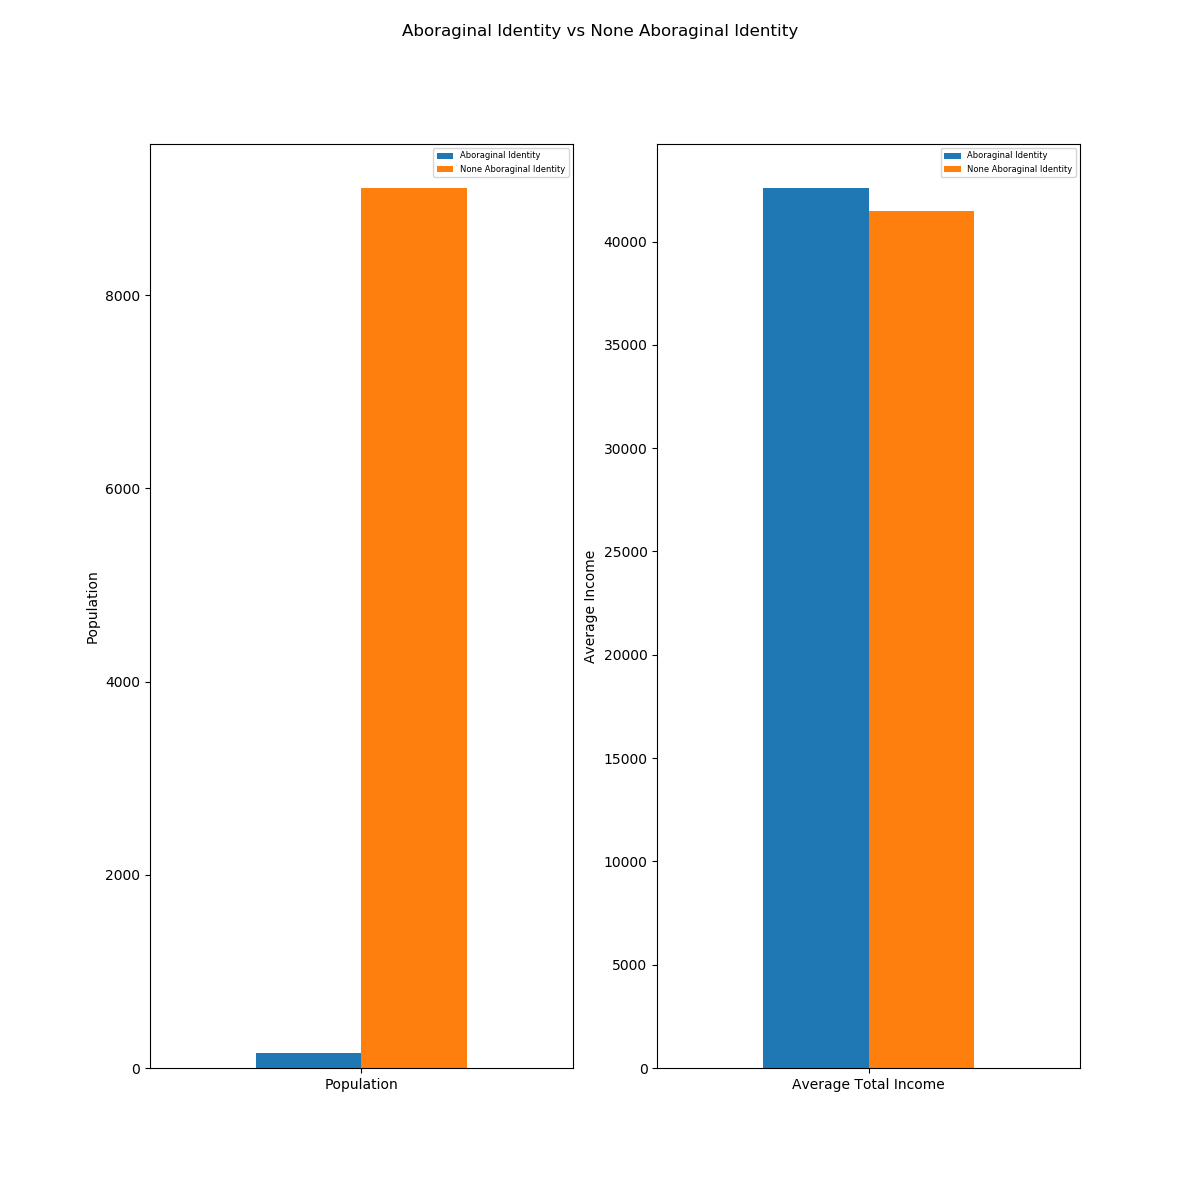
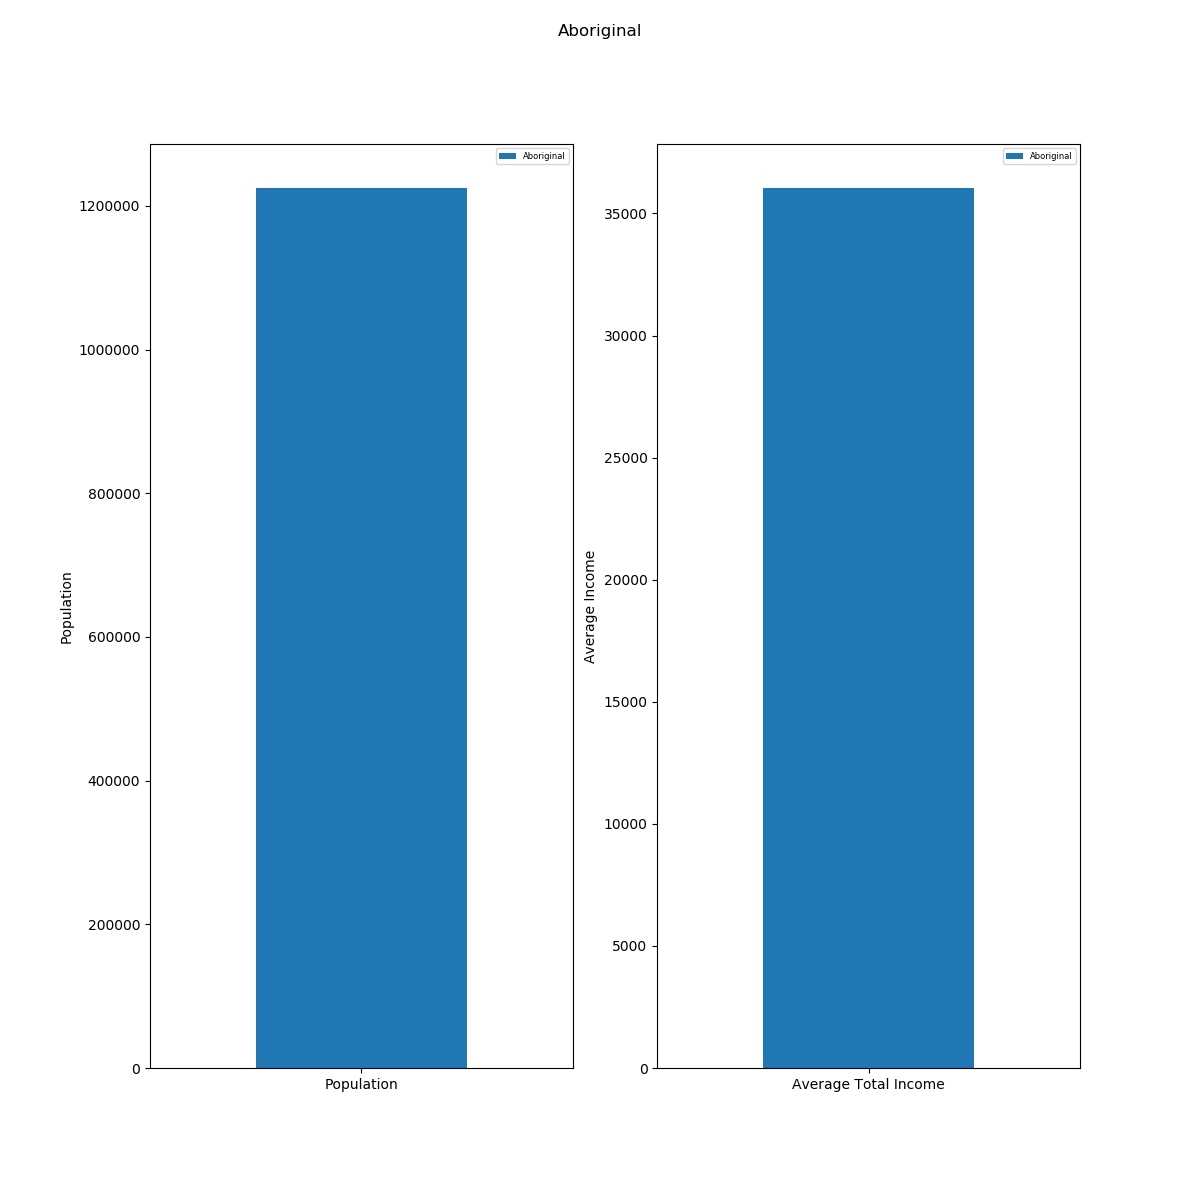
fixed average error for all 3

diff --git a/StatsCanFolder/wInterface/static/results/Heatmap.html b/StatsCanFolder/wInterface/static/results/Heatmap.html
@@ -15,7 +15,7 @@
     <style>html, body {width: 100%;height: 100%;margin: 0;padding: 0;}</style>
     <style>#map {position:absolute;top:0;bottom:0;right:0;left:0;}</style>
     
-            <style> #map_3703942cca3e48f69d29f30a1aa2665d {
+            <style> #map_608628986e7b43b0a8769cdf8b68c8f3 {
                 position : relative;
                 width : 100.0%;
                 height: 100.0%;
@@ -28,7 +28,7 @@
 </head>
 <body>    
     
-            <div class="folium-map" id="map_3703942cca3e48f69d29f30a1aa2665d" ></div>
+            <div class="folium-map" id="map_608628986e7b43b0a8769cdf8b68c8f3" ></div>
         
 </body>
 <script>    
@@ -38,8 +38,8 @@
                 var bounds = null;
             
 
-            var map_3703942cca3e48f69d29f30a1aa2665d = L.map(
-                                  'map_3703942cca3e48f69d29f30a1aa2665d',
+            var map_608628986e7b43b0a8769cdf8b68c8f3 = L.map(
+                                  'map_608628986e7b43b0a8769cdf8b68c8f3',
                                   {center: [56,-95],
                                   zoom: 4,
                                   maxBounds: bounds,
@@ -50,7 +50,7 @@
             
         
     
-            var tile_layer_ce5787634271406b9bb337b8de489ebb = L.tileLayer(
+            var tile_layer_ef503fda29054f0b8fc17ea97739add9 = L.tileLayer(
                 'https://stamen-tiles-{s}.a.ssl.fastly.net/terrain/{z}/{x}/{y}.jpg',
                 {
   "attribution": null,
@@ -60,10 +60,10 @@
   "noWrap": false,
   "subdomains": "abc"
 }
-                ).addTo(map_3703942cca3e48f69d29f30a1aa2665d);
+                ).addTo(map_608628986e7b43b0a8769cdf8b68c8f3);
         
     
-            var heat_map_e64615d4b96d4a128b120db3b5f1ca61 = L.heatLayer(
+            var heat_map_b8dc612a5d1d4bc38b46faadc12e081b = L.heatLayer(
                 [[48.549999999999997, -71.659999999999997, 985.0], [45.43, -76.370000000000005, 650.0], [49.219999999999999, -68.159999999999997, 1035.0], [44.380000000000003, -79.680000000000007, 5090.0], [47.619999999999997, -65.650000000000006, 930.0], [47.590000000000003, -53.289999999999999, 160.0], [44.170000000000002, -77.379999999999995, 3910.0], [49.840000000000003, -99.959999999999994, 4760.0], [43.149999999999999, -80.260000000000005, 4650.0], [44.609999999999999, -75.700000000000003, 855.0], [50.57, -111.91, 525.0], [51.049999999999997, -114.06, 30745.0], [49.990000000000002, -125.23, 3525.0], [48.0, -66.680000000000007, 1490.0], [53.020000000000003, -112.84, 710.0], [51.090000000000003, -115.34999999999999, 205.0], [45.130000000000003, -76.129999999999995, 990.0], [46.240000000000002, -63.140000000000001, 960.0], [49.170000000000002, -121.95999999999999, 6695.0], [43.960000000000001, -78.170000000000002, 360.0], [44.490000000000002, -80.209999999999994, 450.0], [48.960000000000001, -57.960000000000001, 6435.0], [45.030000000000001, -74.739999999999995, 1700.0], [49.689999999999998, -125.0, 2385.0], [45.210000000000001, -72.75, 230.0], [49.509999999999998, -115.77, 1500.0], [55.759999999999998, -120.23999999999999, 1350.0], [45.890000000000001, -72.489999999999995, 880.0], [48.780000000000001, -123.7, 4120.0], [53.57, -113.54000000000001, 55470.0], [47.380000000000003, -68.340000000000003, 720.0], [46.390000000000001, -82.659999999999997, 770.0], [49.140000000000001, -103.01000000000001, 615.0], [45.960000000000001, -66.659999999999997, 3095.0], [48.950000000000003, -54.649999999999999, 775.0], [45.409999999999997, -72.730000000000004, 715.0], [48.93, -55.659999999999997, 560.0], [55.18, -118.8, 4640.0], [43.560000000000002, -80.260000000000005, 1730.0], [44.670000000000002, -63.609999999999999, 12300.0], [43.259999999999998, -79.849999999999994, 11020.0], [45.619999999999997, -74.599999999999994, 195.0], [50.579999999999998, -113.87, 385.0], [43.030000000000001, -80.879999999999995, 235.0], [46.030000000000001, -73.450000000000003, 640.0], [50.68, -120.34, 7960.0], [49.890000000000001, -119.45999999999999, 8435.0], [49.780000000000001, -94.489999999999995, 2230.0], [45.079999999999998, -64.510000000000005, 840.0], [44.229999999999997, -76.5, 4405.0], [45.649999999999999, -74.349999999999994, 155.0], [52.469999999999999, -113.73, 375.0], [42.060000000000002, -82.599999999999994, 665.0], [49.689999999999998, -112.83, 4305.0], [53.280000000000001, -110.01000000000001, 2350.0], [42.969999999999999, -81.239999999999995, 9035.0], [48.850000000000001, -67.530000000000001, 300.0], [50.039999999999999, -110.69, 2550.0], [44.75, -79.890000000000001, 4190.0], [46.090000000000003, -64.780000000000001, 2765.0], [50.390000000000001, -105.54000000000001, 1450.0], [49.210000000000001, -123.97, 5980.0], [49.490000000000002, -117.3, 660.0], [45.590000000000003, -62.649999999999999, 1060.0], [52.789999999999999, -108.29000000000001, 3310.0], [46.299999999999997, -79.450000000000003, 5525.0], [50.719999999999999, -113.95999999999999, 770.0], [44.600000000000001, -79.420000000000002, 1395.0], [43.890000000000001, -78.859999999999999, 6985.0], [44.57, -80.939999999999998, 860.0], [49.329999999999998, -124.33, 830.0], [45.829999999999998, -77.120000000000005, 1965.0], [49.5, -119.59, 2510.0], [45.899999999999999, -77.280000000000001, 1030.0], [44.299999999999997, -78.340000000000003, 4185.0], [49.270000000000003, -124.81999999999999, 3000.0], [43.960000000000001, -78.299999999999997, 220.0], [49.979999999999997, -98.310000000000002, 2645.0], [49.850000000000001, -124.52, 690.0], [53.200000000000003, -105.75, 11450.0], [53.909999999999997, -122.77, 8800.0], [54.32, -130.31, 3605.0], [52.979999999999997, -122.48, 2370.0], [52.270000000000003, -113.83, 3855.0], [50.450000000000003, -104.61, 14550.0], [48.439999999999998, -68.540000000000006, 720.0], [48.240000000000002, -79.030000000000001, 865.0], [45.289999999999999, -66.060000000000002, 1830.0], [46.130000000000003, -70.680000000000007, 230.0], [45.630000000000003, -72.959999999999994, 455.0], [46.43, -71.019999999999996, 65.0], [45.259999999999998, -74.140000000000001, 355.0], [50.700000000000003, -119.29000000000001, 955.0], [42.990000000000002, -82.400000000000006, 2950.0], [52.149999999999999, -106.66, 21575.0], [46.560000000000002, -72.75, 655.0], [45.399999999999999, -71.900000000000006, 2080.0], [49.710000000000001, -13.17, 875.0], [49.520000000000003, -96.680000000000007, 625.0], [43.369999999999997, -80.980000000000004, 400.0], [51.039999999999999, -113.40000000000001, 595.0], [46.399999999999999, -63.799999999999997, 185.0], [50.299999999999997, -107.8, 485.0], [52.310000000000002, -114.09999999999999, 645.0], [54.520000000000003, -128.61000000000001, 2620.0], [46.100000000000001, -71.310000000000002, 225.0], [55.740000000000002, -97.859999999999999, 3865.0], [48.420000000000002, -89.280000000000001, 10885.0], [48.490000000000002, -81.349999999999994, 3545.0], [43.649999999999999, -79.379999999999995, 36365.0], [45.359999999999999, -63.280000000000001, 1785.0], [48.109999999999999, -77.790000000000006, 1825.0], [49.280000000000001, -123.13, 47285.0], [50.270000000000003, -119.28, 3140.0], [48.43, -123.37, 13120.0], [46.060000000000002, -71.959999999999994, 265.0], [44.530000000000001, -79.989999999999995, 455.0], [52.969999999999999, -113.38, 1155.0], [49.670000000000002, -103.86, 265.0], [60.729999999999997, -135.05000000000001, 3630.0], [52.130000000000003, -122.14, 2625.0], [42.299999999999997, -83.030000000000001, 6570.0], [49.18, -97.930000000000007, 465.0], [49.880000000000003, -97.170000000000002, 66580.0], [56.740000000000002, -111.43000000000001, 6195.0], [43.130000000000003, -80.760000000000005, 685.0], [62.460000000000001, -114.36, 3295.0], [51.210000000000001, -102.47, 1365.0]],
                 {
                     minOpacity: 0.2,
@@ -73,6 +73,6 @@
                     blur: 15,
                     gradient: null
                     })
-                .addTo(map_3703942cca3e48f69d29f30a1aa2665d);
+                .addTo(map_608628986e7b43b0a8769cdf8b68c8f3);
         
 </script>

diff --git a/StatsCanFolder/Base/dataproc.py b/StatsCanFolder/Base/dataproc.py
@@ -23,25 +23,6 @@ def query_exec(con, cmd_lst):
         cur.execute(each)
 
 
-def query_mkr(geo_para = "", age_para = "",  sex_para = "", inc_para = "", city_para = ""):
-	#the first condition is here because its necessary but doesnt change
-	result = " AND REG_STAT_IND = " + str(1)
-	if (geo_para != "" and city_para == ""):
-		result += " AND GEO_REG = " + str(region_d[geo_para])
-	if (city_para != ""):
-		result += " AND GEO_NAME = " + city_para
-	if(age_para != ""):
-		result += " AND AGE_GRP_IND = " + str(age_d[age_para])
-	
-	if(sex_para != ""):
-		result += " AND SEX_IND = " + str(sex_d[sex_para])
-	if(inc_para != ""):
-		result += " AND INC_STAT_IND = " + str(inc_d[inc_para])
-	if(result != ""):
-		result = "WHERE " + result[5:]
-	return result
-
-
 def data_reader(con, filename):
 	#creating table and prepare for the filenames
 	cur = con.cursor()
@@ -60,7 +41,7 @@ def data_reader(con, filename):
 	INUK, MUL_AB, OS_AB, NOT_AB) VALUES (?,?,?,?,?,?,?,?,?,?,?,?,?,?,?,?,?,?,?,?);", to_db)
 
 	#update tasks
-	cmd_lst = [tbl_altr,tbl_update]
+	cmd_lst = [tbl_altr,tbl_altr2,tbl_update]
 	query_exec(con, cmd_lst)
 	con.commit()
 	
@@ -69,89 +50,114 @@ def data_reader(con, filename):
 	requirement 1a uses the following which is the only one that requires proportion
 	"SELECT SUM(AB_ID) / SUM(TTL_STAT) as AB_VAL, SUM(NOT_AB)/SUM(TTL_STAT) as NON_AB_VAL FROM CensusT "
 '''
-def proc_tabular (con, sel, inc_para, age_para,  sex_para, result_file_name, city_para = "", geo_para = ""):
-    	
+def proc_a (con):
 	region_list = list(region_d.keys())
 	df = pd.DataFrame(columns = ['Aboraginal Identity', 'None Aboraginal Identity'], \
-						index = ['Western Canada', 'Central Canada', 'Atlantic Canada', 'Northern Canada'])
+						index = region_list)
+	clause = "SELECT GEO_REG_NAME, ROUND(SUM(AB_ID) / SUM(TTL_STAT),2) as AB_VAL, ROUND(SUM(NOT_AB)/SUM(TTL_STAT),2) as NON_AB_VAL \
+				FROM CensusT \
+				WHERE REG_STAT_IND = 1 AND AGE_GRP_IND = 1 AND SEX_IND = 1 AND INC_STAT_IND = 1 AND GEO_REG_IND >= 1\
+				GROUP BY GEO_REG_NAME;"
+	cur = con.cursor()
+	cur.execute(clause)
+	rows = cur.fetchall()
+	for i in range(0, len(rows)):
+		df.at[rows[i][0],'Aboraginal Identity'] = rows[i][1]
+		df.at[rows[i][0],'None Aboraginal Identity'] = rows[i][2]
+	df.to_csv('./PopulationProportion.csv')
 
-	for i in range(1,5):
-		where_clause = query_mkr(region_list[i-1], age_para, sex_para, inc_para , city_para)
-		cur = con.cursor()
-		cur.execute(sel + where_clause)
-		rows = cur.fetchall()[0]
-		df.iloc[i-1] = rows
-
-	df.to_csv('./' + result_file_name)
-
+def proc_b(con):
+	region_list = list(region_d.keys())
+	df = pd.DataFrame(columns = ['Aboraginal Identity', 'None Aboraginal Identity'], \
+						index = region_list)
+	clause = "SELECT GEO_REG_NAME, AVG(AB_ID) AS AVGAB, AVG(NOT_AB) AS AVGNAB FROM CensusT \
+				WHERE REG_STAT_IND = 1 AND AGE_GRP_IND = 1 AND SEX_IND = 1 AND INC_STAT_IND = 5 AND GEO_REG_IND >= 1\
+				GROUP BY GEO_REG_NAME;"
+	cur = con.cursor()
+	cur.execute(clause)
+	rows = cur.fetchall()
+	for i in range(0, len(rows)):
+		df.at[rows[i][0],'Aboraginal Identity'] = rows[i][1]
+		df.at[rows[i][0],'None Aboraginal Identity'] = rows[i][2]
+	df.to_csv('./AvgTtlIncome.csv')
 
 def proc_c(con):
 	region_list = list(region_d.keys())
 	df = pd.DataFrame(columns = ['Aboriginal Male', 'Aboriginal Female', 'Non-Aboriginal Male', 'Non-Aboriginal Female'], \
-						index = ['Western Canada', 'Central Canada', 'Atlantic Canada', 'Northern Canada'])
-	sel_ppt = "SELECT SUM(AB_ID) AS AB_VAL, SUM(NOT_AB) AS NON_AB_VAL FROM CensusT "
-	for i in range(1,5):
-		where_clause_m = query_mkr(region_list[i-1], 'Total - Age', 'Male', 'Total - Income statistics')
-		where_clause_f = query_mkr(region_list[i-1], 'Total - Age', 'Female', 'Total - Income statistics')
-		where_clause_t = query_mkr(region_list[i-1], 'Total - Age', 'Total - Sex', 'Total - Income statistics')
-		cur = con.cursor()
-		cur.execute(sel_ppt+ where_clause_m)
-		rowsm = cur.fetchall()[0]
-		cur.execute(sel_ppt+ where_clause_f)
-		rowsf = cur.fetchall()[0]
-		cur.execute(sel_ppt + where_clause_t)
-		rowst = cur.fetchall()[0]
-		rows = tuple([float("{0:.2f}".format(rowsm[0]/rowst[0])), float("{0:.2f}".format(rowsf[0]/rowst[0])), \
-			 float("{0:.2f}".format(rowsm[1]/rowst[1])), float("{0:.2f}".format(rowsf[1]/rowst[1]))])
-		df.iloc[i-1] = rows
+						index = region_list)
+	sel_ppt = "SELECT GEO_REG_NAME, SUM(AB_ID) AS AB_VAL, SUM(NOT_AB) AS NON_AB_VAL FROM CensusT \
+				WHERE REG_STAT_IND = 1 AND AGE_GRP_IND = 1 AND SEX_IND = 1 AND INC_STAT_IND = 1 AND GEO_REG_IND >= 1\
+				GROUP BY GEO_REG_NAME;"
+	sel_ppm = "SELECT GEO_REG_NAME, SUM(AB_ID) AS AB_VAL, SUM(NOT_AB) AS NON_AB_VAL FROM CensusT \
+				WHERE REG_STAT_IND = 1 AND AGE_GRP_IND = 1 AND SEX_IND = 2 AND INC_STAT_IND = 1 AND GEO_REG_IND >= 1\
+				GROUP BY GEO_REG_NAME;"
+	sel_ppf = "SELECT GEO_REG_NAME, SUM(AB_ID) AS AB_VAL, SUM(NOT_AB) AS NON_AB_VAL FROM CensusT \
+				WHERE REG_STAT_IND = 1 AND AGE_GRP_IND = 1 AND SEX_IND = 3 AND INC_STAT_IND = 1 AND GEO_REG_IND >= 1\
+				GROUP BY GEO_REG_NAME;"
+	cur = con.cursor()
+	cur.execute(sel_ppm)
+	rowsm = cur.fetchall()
+	cur.execute(sel_ppf)
+	rowsf = cur.fetchall()
+	cur.execute(sel_ppt)
+	rowst = cur.fetchall()
+
+	for i in range(0, len(rowst)):
+		df.at[rowst[i][0],'Aboriginal Male'] = float("{0:.2f}".format(rowsm[i][1]/rowst[i][1]))
+		df.at[rowst[i][0],'Aboriginal Female'] = float("{0:.2f}".format(rowsf[i][1]/rowst[i][1]))
+		df.at[rowst[i][0],'Non-Aboriginal Male'] = float("{0:.2f}".format(rowsm[i][2]/rowst[i][2]))
+		df.at[rowst[i][0],'Non-Aboriginal Female'] = float("{0:.2f}".format(rowsf[i][2]/rowst[i][2]))
+
 	df.to_csv('./MaleFemaleProportion.csv')
 
 
 def proc_d(con):
+	region_list = list(region_d.keys())
 	df = pd.DataFrame(columns = ['Max Aboraginal Identity Age Group'], \
-						index = ['Western Canada', 'Central Canada', 'Atlantic Canada', 'Northern Canada'])
-	sel_max = "SELECT AGE_GRP, MAX(AB_ID) FROM CensusT "
-	for i in range(1,5):
-		where_clause = "WHERE GEO_REG = " + str(i) + " AND SEX_IND = 1 AND INC_STAT_IND = 1 AND \
-						REG_STAT_IND = 1 AND AGE_GRP_IND <> 1 ;"
-		cur = con.cursor()
-		cur.execute(sel_max + where_clause)
-		rows = cur.fetchall()[0]
-		df.iloc[i-1] = rows[0]
+						index = region_list)
+	sel_max = "SELECT GEO_REG_NAME,AGE_GRP, MAX(AB_ID) FROM CensusT \
+				WHERE REG_STAT_IND = 1 AND AGE_GRP_IND > 1 AND SEX_IND = 1 AND INC_STAT_IND = 1 AND GEO_REG_IND >= 1\
+				GROUP BY GEO_REG_NAME;"
+
+	cur = con.cursor()
+	cur.execute(sel_max)
+	rows = cur.fetchall()
+	for i in range(0,len(rows)):
+		df.at[rows[i][0],'Max Aboraginal Identity Age Group'] = rows[i][1]
 	df.to_csv('./MaxAgeGroup.csv')
 
 
 def init():
-	global sex_d, region_d, age_d, reg_d, inc_d, sel_pp, sel_avginc, tbl_create, tbl_altr, tbl_update, included_cols, datafile
-	sex_d = {'Total - Sex': 1, 'Male': 2, 'Female' : 3}
+	global region_d, tbl_create, tbl_altr, tbl_altr2, tbl_update, included_cols, datafile
 	region_d = {'Western Canada':1, 'Central Canada':2, 'Atlantic Canada':3, 'Northern Canada':4}
-	age_d = {'Total - Age':1, '15 to 24 years':2, '25 to 64 years':3,'25 to 54 years':4, \
-			'25 to 34 years':5, '35 to 44 years':6, '45 to 54 years':7, '55 to 64 years':8, '65 years and over':9}
-	reg_d = {'Total - Population by Registered or Treaty Indian status':1,'Registered or Treaty Indian':2,'Not a Registered or Treaty Indian':3}
-	inc_d = {'Total - Income statistics':1, 'Average total income ($)':5}
-	sel_pp = "SELECT ROUND(SUM(AB_ID) / SUM(TTL_STAT),2) as AB_VAL, ROUND(SUM(NOT_AB)/SUM(TTL_STAT),2) as NON_AB_VAL FROM CensusT "
-	sel_avginc = "SELECT AB_ID, NOT_AB FROM CensusT "
 	datafile = 'DS1.csv' 
 	included_cols = [1,2,3,7,8,10,11,13,14,16,17,19,20,21,22,23,24,25,26,27]
-	tbl_altr = "ALTER TABLE CensusT ADD GEO_REG INT;"
+	tbl_altr = "ALTER TABLE CensusT ADD COLUMN GEO_REG_NAME VARCHAR(255); "
+	tbl_altr2 = "ALTER TABLE CensusT ADD COLUMN GEO_REG_IND INT;"
 	tbl_create = "CREATE TABLE CensusT (GEO_CODE INT, GEO_LVL INT, GEO_NAME VARCHAR(255), REG_STAT VARCHAR(255), REG_STAT_IND INT, AGE_GRP VARCHAR(255), \
 			 		AGE_GRP_IND INT, SEX VARCHAR(255), SEX_IND INT, INC_STAT VARCHAR(255), INC_STAT_IND INT, \
 			 		TTL_STAT DOUBLE,  AB_ID DOUBLE, SING_AB DOUBLE, FNATION DOUBLE, METIS DOUBLE, INUK DOUBLE, MUL_AB DOUBLE, OS_AB DOUBLE, NOT_AB DOUBLE);"
-	tbl_update = "UPDATE CensusT SET GEO_REG = (CASE \
+	tbl_update = "UPDATE CensusT SET GEO_REG_NAME = (CASE \
+	            WHEN GEO_NAME IN ('Ontario','Quebec') THEN 'Central Canada'\
+	     		WHEN GEO_NAME IN ('British Columbia','Alberta','Saskatchewan','Manitoba') THEN 'Western Canada' \
+	     		WHEN GEO_NAME IN ('New Brunswick','Prince Edward Island','Nova Scotia','Newfoundland and Labrador') THEN 'Atlantic Canada' \
+	     		WHEN GEO_NAME IN ('Yukon','Northwest Territories','Nunavut') THEN 'Northern Canada' \
+	    		ELSE 'OTHERLEVEL' \
+	    		END),\
+	    		GEO_REG_IND = (CASE \
 	            WHEN GEO_NAME IN ('Ontario','Quebec') THEN 2\
 	     		WHEN GEO_NAME IN ('British Columbia','Alberta','Saskatchewan','Manitoba') THEN 1 \
 	     		WHEN GEO_NAME IN ('New Brunswick','Prince Edward Island','Nova Scotia','Newfoundland and Labrador') THEN 3 \
 	     		WHEN GEO_NAME IN ('Yukon','Northwest Territories','Nunavut') THEN 4 \
-	    		ELSE 0 \
-	    		END);"
+	    		ELSE 0 END);"
 
 
 def main():
 	con = sqlite3.connect(":memory:")
 	init()
 	data_reader(con, datafile)
-	proc_tabular(con, sel_pp, 'Total - Income statistics', 'Total - Age', 'Total - Sex', 'PopulationProportion.csv')
-	proc_tabular(con, sel_avginc, 'Average total income ($)', 'Total - Age', 'Total - Sex', 'AvgTtlIncome.csv')
+	proc_a(con)
+	proc_b(con)
 	proc_c(con)
 	proc_d(con)
 

diff --git a/StatsCanFolder/wInterface/backend.py b/StatsCanFolder/wInterface/backend.py
@@ -57,10 +57,14 @@ def query_exec(con, cmd_lst):
     for each in cmd_lst:
         cur.execute(each)
 
-def select_mkr(identity_para = ''):
+def select_mkr(identity_para = '', avg_para = False):
 	sel = "SELECT "
-	if identity_para != '':
-		sel = sel + select_d[identity_para] + " FROM CensusT "
+	if identity_para != '' and avg_para:
+		sel = sel + "AVG(" + select_d[identity_para] + ") FROM CensusT "
+	elif identity_para != '':
+		sel = sel + "SUM(" + select_d[identity_para] + ") FROM CensusT "
+	elif avg_para:
+		sel = sel + "AVG(AB_ID), AVG(NOT_AB) FROM CensusT "
 	else:
 		sel = sel + "SUM(AB_ID), SUM(NOT_AB) FROM CensusT "
 	return sel
@@ -120,7 +124,11 @@ def data_reader(con, filename):
 	"SELECT SUM(AB_ID) / SUM(TTL_STAT) as AB_VAL, SUM(NOT_AB)/SUM(TTL_STAT) as NON_AB_VAL FROM CensusT "
 '''
 def proc_tabular (con, iden_para, df, age_para, sex_para, inc_para, geo_para = '', city_para =  ' '):
-	sel_clause = select_mkr(iden_para)
+	if (inc_para == 'Average total income ($)'):
+		sel_clause = select_mkr(iden_para, True)
+	else:
+		sel_clause = select_mkr(iden_para,False)
+
 	where_clause = query_mkr(geo_para, age_para, sex_para, inc_para , city_para)
 	cur = con.cursor()
 	cur.execute(sel_clause + where_clause)
